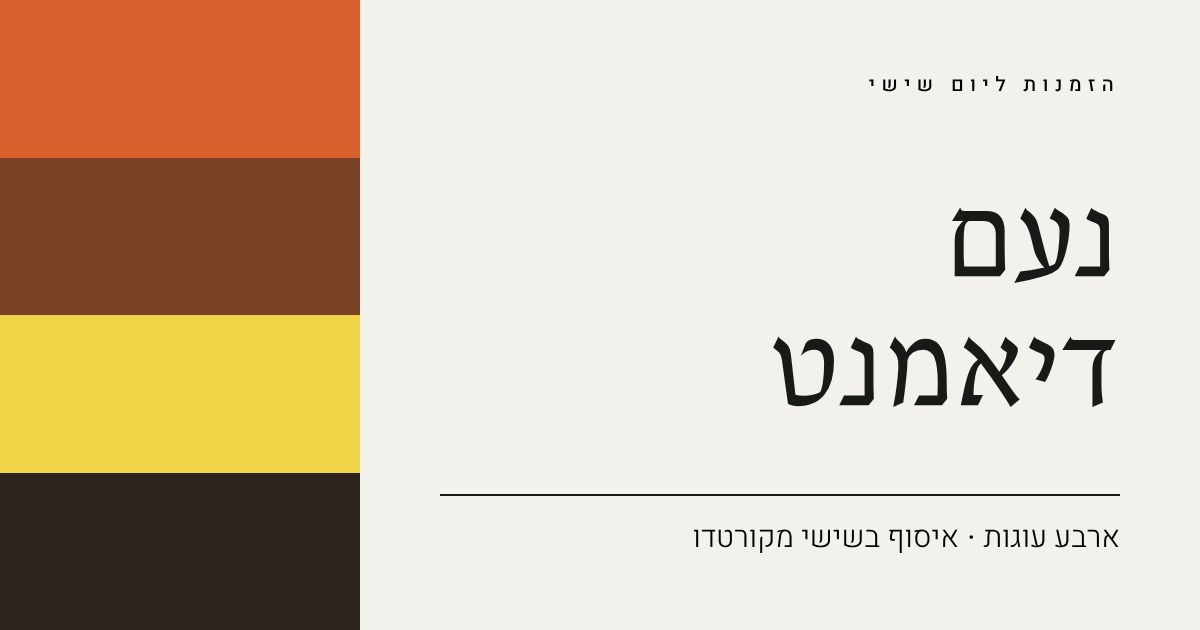
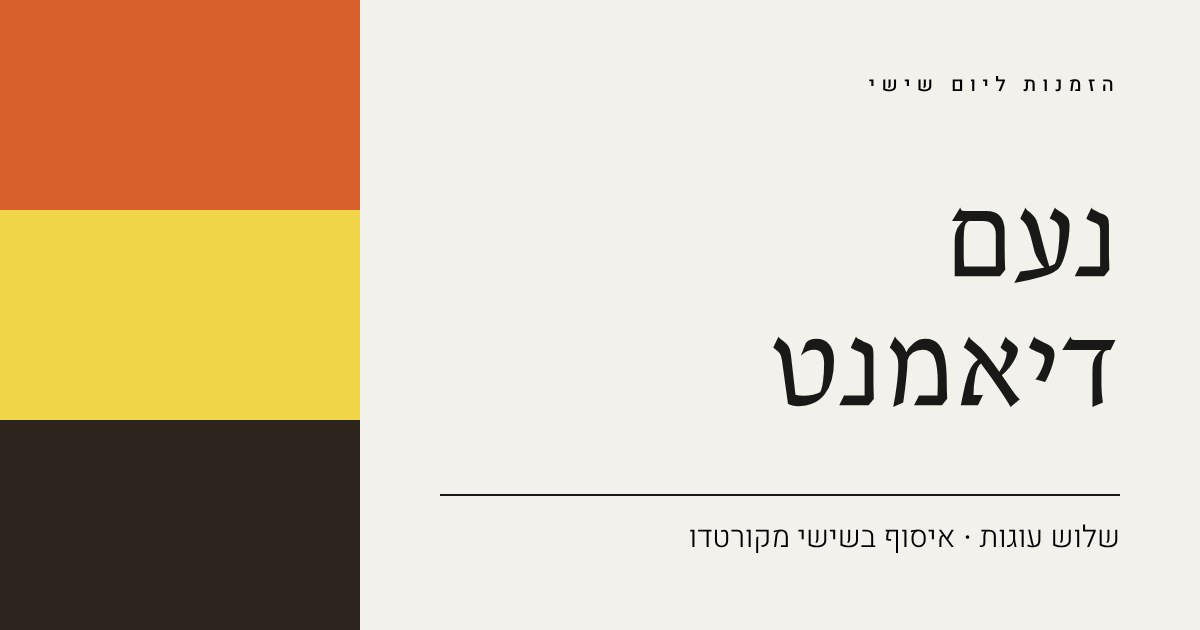
Noam page: vitrine hero, cake photos, three cakes
Claude-Session: https://claude.ai/code/session_01N1poKSXUxapcwz56zmkHLS

Changed region(s): [[0.0, 0.2413, 0.3083, 0.5127], [0.0, 0.6635, 0.3083, 0.754], [0.555, 0.8143, 0.9558, 0.8746]]

diff --git a/noam/index.html b/noam/index.html
@@ -3,13 +3,14 @@
 <head>
 <meta charset="utf-8">
 <meta name="viewport" content="width=device-width,initial-scale=1,viewport-fit=cover">
-<meta name="theme-color" content="#f3f1eb">
-<meta name="description" content="ארבע עוגות של נעם דיאמנט. מזמינים עד רביעי ב־15:00, אוספים בשישי מקורטדו.">
+<meta name="theme-color" content="#1e1a16">
+<meta name="description" content="שלוש עוגות של נעם דיאמנט. מזמינים עד רביעי ב־15:00, אוספים בשישי מקורטדו.">
 <meta property="og:title" content="נעם דיאמנט · הזמנות ליום שישי">
-<meta property="og:description" content="ארבע עוגות. מזמינים עד רביעי ב־15:00, אוספים בשישי מקורטדו.">
-<meta property="og:image" content="https://shahar1987.github.io/kvutzot/noam/og.jpg">
+<meta property="og:description" content="שלוש עוגות. מזמינים עד רביעי ב־15:00, אוספים בשישי מקורטדו.">
+<meta property="og:image" content="https://shahar1987.github.io/kvutzot/noam/og.jpg?v=2">
 <meta property="og:type" content="website">
 <meta property="og:locale" content="he_IL">
+<link rel="preconnect" href="https://images.unsplash.com">
 <title>נעם דיאמנט עוגות</title>
 <link rel="stylesheet" href="https://fonts.googleapis.com/css2?family=Bellefair&family=Heebo:wght@300;400;500;700&display=swap">
 <style>
@@ -31,35 +32,44 @@ h1,h2,h3{font-family:var(--display);font-weight:400;margin:0;text-wrap:balance}
 
 /* top */
 .top{display:flex;justify-content:space-between;align-items:center;padding-block:22px}
-.mark{width:46px;height:46px;border-radius:50%;border:1px solid var(--ink);display:grid;place-items:center;font-family:var(--display);font-size:22px;line-height:1;transform:rotate(calc(var(--hp,0)*-120deg))}
+.mark{width:46px;height:46px;border-radius:50%;border:1px solid currentColor;display:grid;place-items:center;font-family:var(--display);font-size:22px;line-height:1;transform:rotate(calc(var(--hp,0)*-120deg))}
 
-/* hero */
-.hero{padding-block:9vh 7vh;display:grid;gap:34px}
-.name{font-size:clamp(84px,27vw,168px);line-height:.84;letter-spacing:-.02em}
+/* hero: full-screen vitrine photo that slowly zooms and darkens while the cakes slide over it */
+.hero-wrap{position:sticky;top:0;height:100svh;overflow:hidden;background:#1e1a16;color:#f7f2ea}
+.hero-bg{position:absolute;inset:0;background-size:cover;background-position:center;transform:scale(calc(1.06 + var(--hp,0)*.14));filter:brightness(calc(.92 - var(--hp,0)*.45))}
+.hero-wrap::after{content:"";position:absolute;inset:0;background:linear-gradient(180deg,rgba(20,16,12,.55) 0,rgba(20,16,12,0) 26%,rgba(20,16,12,.15) 45%,rgba(20,16,12,.85) 100%)}
+.hero-in{position:relative;z-index:1;height:100%;display:flex;flex-direction:column;justify-content:space-between;padding-block:max(6px,env(safe-area-inset-top,0px)) 34px}
+.hero-in .in{width:100%}
+.js .hero-bg{animation:settle 2.2s cubic-bezier(.2,.7,.1,1) both}
+@keyframes settle{from{opacity:0}to{opacity:1}}
+.hero{display:grid;gap:26px}
+.name{text-shadow:0 2px 24px rgba(0,0,0,.3);font-size:clamp(84px,27vw,168px);line-height:.84;letter-spacing:-.02em}
 .name>span{display:block}
 .name>span:last-child{padding-right:.55em}
 .js .name i{display:inline-block;font-style:normal;animation:rise 1s cubic-bezier(.2,.7,.1,1) both;animation-delay:calc(var(--i)*60ms + 150ms)}
 @keyframes rise{from{transform:translateY(.5em);opacity:0}to{transform:none;opacity:1}}
 .lede{display:grid;grid-template-columns:auto 1fr;gap:18px;align-items:start}
-.lede .line{width:56px;height:1px;background:var(--ink);margin-top:14px;transform-origin:right;transform:scaleX(calc(1 - var(--hp,0)))}
+.lede .line{width:56px;height:1px;background:currentColor;margin-top:14px;transform-origin:right;transform:scaleX(calc(1 - var(--hp,0)))}
 .lede p{margin:0;font-size:19px;max-width:28ch}
-.facts{display:flex;gap:28px;flex-wrap:wrap;border-top:1px solid var(--ink);padding-top:16px}
+.facts{display:flex;gap:28px;flex-wrap:wrap;border-top:1px solid currentColor;padding-top:16px}
 .facts div{display:grid;gap:2px}
 .facts b{font-weight:500;font-size:16px}
-.facts span{font-size:11px;letter-spacing:.28em;color:var(--soft)}
+.facts span{font-size:11px;letter-spacing:.28em;opacity:.75}
 
 /* cake fields */
-.field{position:sticky;top:0;min-height:100svh;overflow:hidden;display:flex;flex-direction:column;justify-content:space-between;padding-block:max(28px,env(safe-area-inset-top,0px)) calc(100px + env(safe-area-inset-bottom,0px));color:var(--fg);background:var(--bg)}
+.field{position:sticky;top:0;min-height:100svh;overflow:hidden;display:flex;flex-direction:column;justify-content:flex-start;padding-block:max(28px,env(safe-area-inset-top,0px)) calc(100px + env(safe-area-inset-bottom,0px));color:var(--fg);background:var(--bg)}
 .field .in{width:100%;position:relative;z-index:1}
 .f1{--bg:var(--carrot);--fg:#fff6ec;--shape:#e98a4f}
 .f2{--bg:var(--cinnamon);--fg:#f6e7d9;--shape:#93573a}
 .f3{--bg:var(--lemon);--fg:#2a2410;--shape:#f7e47e}
 .f4{--bg:var(--basque);--fg:#efe6da;--shape:#3c3128;--hi:var(--lime)}
-.disc{position:absolute;z-index:0;width:min(150vw,900px);aspect-ratio:1;border-radius:50%;left:-38%;bottom:-40%;
+.f-photo{position:absolute;inset:0 0 auto 0;height:56%;background-size:cover;background-position:center;transform:translateY(calc((1 - var(--sp,1))*60px)) scale(1.08)}
+.f-photo::before{content:"";position:absolute;inset:0;background:linear-gradient(180deg,rgba(0,0,0,.45) 0,transparent 24%,transparent 52%,var(--bg) 100%)}
+.disc{display:none;position:absolute;z-index:0;width:min(150vw,900px);aspect-ratio:1;border-radius:50%;left:-38%;bottom:-40%;
   background:conic-gradient(from calc(var(--sp,0)*90deg),var(--bg) 0 38deg,var(--shape) 0 360deg);transform:rotate(calc(var(--sp,0)*-40deg))}
 .f-head{display:flex;justify-content:space-between;align-items:baseline}
-.f-head .label{opacity:.75}
-.f-body{display:grid;gap:22px}
+.f-head .label{color:#fff}
+.f-body{display:grid;gap:22px;margin-top:auto;padding-bottom:22px}
 .f-body h3{font-size:clamp(58px,17vw,108px);line-height:.9;letter-spacing:-.015em;transform:translateX(calc((1 - var(--sp,1))*-40px))}
 .f-body h3 em{font-style:normal;color:var(--hi,inherit)}
 .tags{display:flex;flex-wrap:wrap;gap:8px;list-style:none;padding:0;margin:0}
@@ -116,18 +126,19 @@ h1,h2,h3{font-family:var(--display);font-weight:400;margin:0;text-wrap:balance}
 .bar a{background:var(--paper);color:var(--ink);text-decoration:none;font-weight:500;padding:13px 22px;border-radius:999px}
 button:focus-visible,input:focus-visible,a:focus-visible{outline:2px solid currentColor;outline-offset:3px}
 @media (prefers-reduced-motion:reduce){
-  .js .name i{animation:none}.mark,.disc,.f-body h3,.lede .line{transform:none!important}.about .w{opacity:1!important}.bar{transition:none}
+  .js .name i,.js .hero-bg{animation:none}.mark,.hero-bg,.f-photo,.f-body h3,.lede .line{transform:none!important}.about .w{opacity:1!important}.bar{transition:none}
 }
 </style>
 
 </head>
 <body>
-<header class="pad">
-  <div class="in">
-    <div class="top"><span class="mark" aria-hidden="true">נ</span><span class="label">הזמנות ליום שישי</span></div>
-    <div class="hero">
+<header class="hero-wrap">
+  <div class="hero-bg" role="img" aria-label="ויטרינה של עוגות" style="background-image:url('https://images.unsplash.com/photo-1726950189914-8fe1016eb9c7?auto=format&fit=crop&w=1800&q=75')"></div>
+  <div class="pad hero-in">
+    <div class="in top"><span class="mark" aria-hidden="true">נ</span><span class="label">הזמנות ליום שישי</span></div>
+    <div class="in hero">
       <h1 class="name" aria-label="נעם דיאמנט"><span aria-hidden="true">נעם</span><span aria-hidden="true">דיאמנט</span></h1>
-      <div class="lede"><span class="line"></span><p>ארבע עוגות שאפיתי לסוף השבוע. מזמינים כאן ואוספים בשישי מקורטדו.</p></div>
+      <div class="lede"><span class="line"></span><p>שלוש עוגות שאפיתי לסוף השבוע. מזמינים כאן ואוספים בשישי מקורטדו.</p></div>
       <div class="facts">
         <div><span>הזמנות</span><b>עד רביעי, 15:00</b></div>
         <div><span>איסוף</span><b>שישי, קורטדו</b></div>
@@ -162,7 +173,7 @@ button:focus-visible,input:focus-visible,a:focus-visible{outline:2px solid curre
     </form>
     <p class="err" id="err" role="alert" hidden></p>
     <a class="cta" id="cta" href="https://wa.me/972506571600" target="_blank" rel="noopener">שליחת ההזמנה בוואטסאפ</a>
-    <div class="fine"><span>תשלום באיסוף</span><span dir="ltr">050-6571600</span></div>
+    <div class="fine"><span>תשלום באיסוף · התמונות להמחשה</span><span dir="ltr">050-6571600</span></div>
   </div>
 </section>
 
@@ -174,16 +185,15 @@ button:focus-visible,input:focus-visible,a:focus-visible{outline:2px solid curre
 <script>
 document.documentElement.classList.add('js');
 const menu=[
-  {id:'c1',cls:'f1',kind:'עוגת גזר',name:'גזר <em>ופקאנים</em>',plain:'פס גזר ופקאנים',tags:['קינמון','פקאנים קלויים','פרוסטינג'],price:80},
-  {id:'c2',cls:'f2',kind:'עוגת גזר',name:'גזר <em>וקינמון</em>',plain:'פס גזר וקינמון',tags:['קינמון','פרוסטינג'],price:65},
-  {id:'c3',cls:'f3',kind:'פאי',name:'פאי <em>לימון</em>',plain:'פס פאי לימון',tags:['קרם לימון','מרנג שרוף'],price:85},
-  {id:'c4',cls:'f4',kind:'עוגת גבינה',name:'באסקית <em>ליים</em>',plain:'פס באסקית',tags:['גרידת ליים','קרם לימון עדין'],price:110}
+  {id:'c1',cls:'f1',kind:'עוגת גזר',name:'גזר <em>וקינמון</em>',plain:'פס גזר וקינמון',tags:['קינמון','פרוסטינג'],price:65,img:'https://images.unsplash.com/photo-1607269832078-1a3bd22a306d?auto=format&fit=crop&w=1400&q=75'},
+  {id:'c3',cls:'f3',kind:'פאי',name:'פאי <em>לימון</em>',plain:'פס פאי לימון',tags:['קרם לימון','מרנג שרוף'],price:85,img:'https://images.unsplash.com/photo-1530449595747-4315f4cd454f?auto=format&fit=crop&w=1400&q=75'},
+  {id:'c4',cls:'f4',kind:'עוגת גבינה',name:'באסקית <em>ליים</em>',plain:'פס באסקית',tags:['גרידת ליים','קרם לימון עדין'],price:110,img:'https://images.unsplash.com/photo-1759303380841-55c09244fd2b?auto=format&fit=crop&w=1400&q=75'}
 ];
 const q=Object.fromEntries(menu.map(m=>[m.id,0]));
 const main=document.getElementById('cakes');
 menu.forEach(m=>{
   const s=document.createElement('section');s.className='field pad '+m.cls;s.setAttribute('aria-label',m.plain);
-  s.innerHTML=`<div class="disc" aria-hidden="true"></div>
+  s.innerHTML=`<div class="f-photo" aria-hidden="true" style="background-image:url('${m.img}')"></div>
   <div class="in f-head"><span class="label">${m.kind}</span><span class="label">פס שלם</span></div>
   <div class="in f-body"><h3>${m.name}</h3><ul class="tags">${m.tags.map(t=>`<li>${t}</li>`).join('')}</ul></div>
   <div class="in f-foot"><span class="price"><small>₪</small>${m.price}</span>
@@ -232,7 +242,7 @@ bio.innerHTML=bio.textContent.split(' ').map(w=>`<span class="w">${w}</span>`).j
 const words=[...bio.querySelectorAll('.w')],fields=[...document.querySelectorAll('.field')],orderEl=document.querySelector('.order'),root=document.documentElement;
 function frame(){
   ticking=false;const vh=innerHeight;
-  root.style.setProperty('--hp',Math.min(1,scrollY/(vh*.8)).toFixed(3));
+  root.style.setProperty('--hp',Math.min(1,scrollY/vh).toFixed(3));
   // --sp: 0 while a field is still coming up from below, 1 once it has landed at the top
   fields.forEach(f=>{const t=f.getBoundingClientRect().top;f.style.setProperty('--sp',Math.min(1,Math.max(0,1-t/vh)).toFixed(3))});
   words.forEach(w=>{const d=Math.abs(w.getBoundingClientRect().top-vh*.5)/(vh*.5);w.style.setProperty('--o',Math.max(.28,1-d*.8).toFixed(2))});
